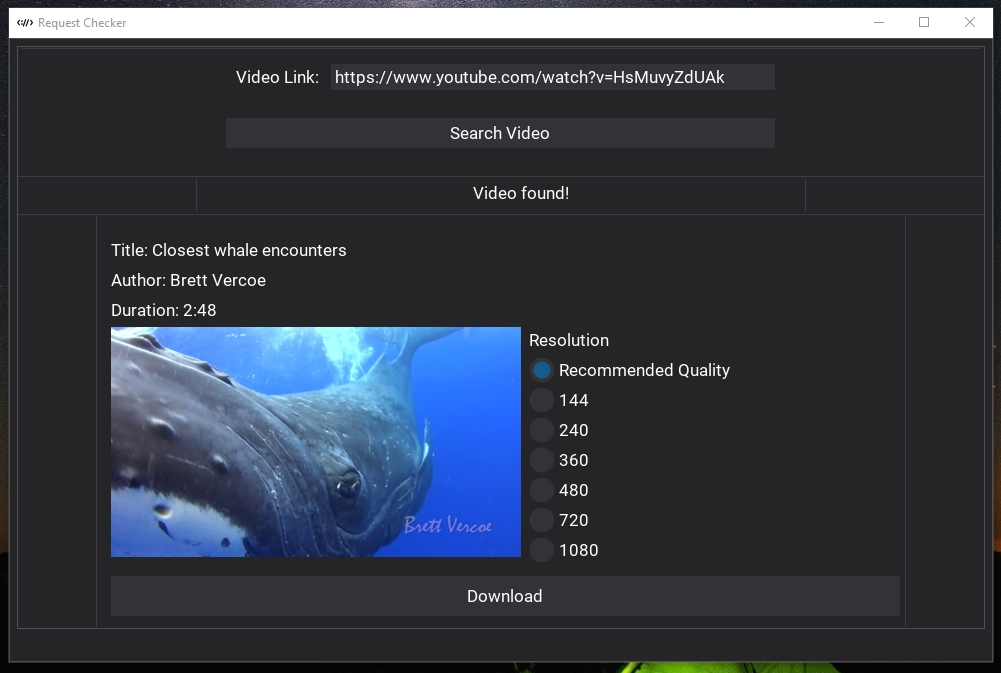
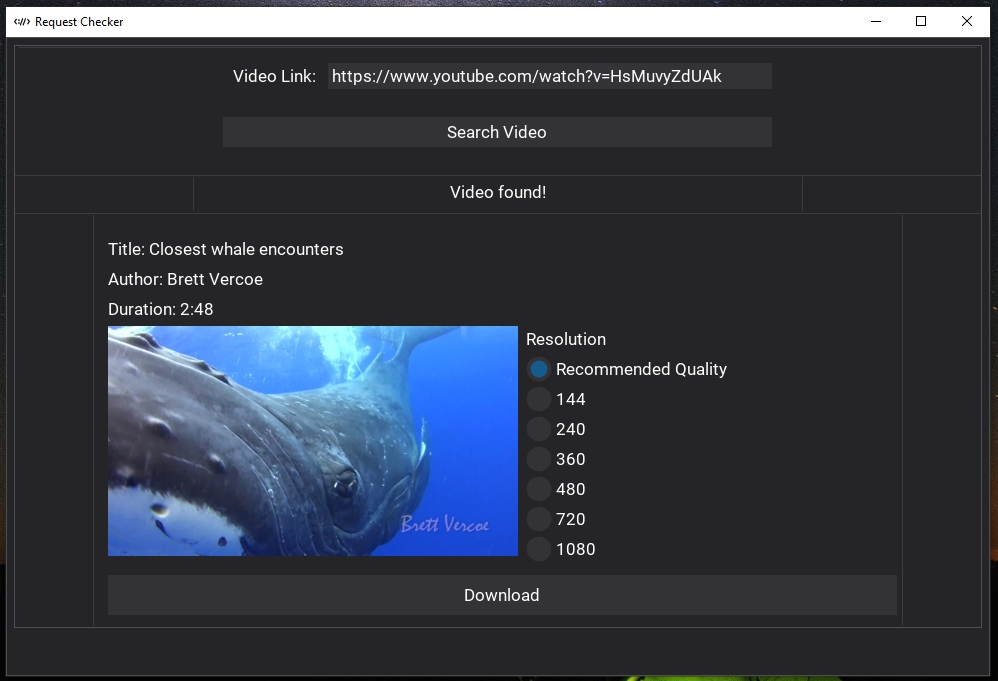
Fixed image and text spacing

diff --git a/src/utils.py b/src/utils.py
@@ -24,7 +24,7 @@ def setLog(text: str):
     start_p = 195
     if size and size[0] != 0:
         width = size[0]
-        start_p = (((row_width) / 2) - (width / 2)) - 6
+        start_p = (((row_width) / 2) - (width / 2)) - 8
     if dpg.does_item_exist('request_response_spacer'):
         dpg.delete_item('request_response_spacer')
     dpg.add_spacer(width=start_p, before='request_response', parent='response_space', tag='request_response_spacer')
